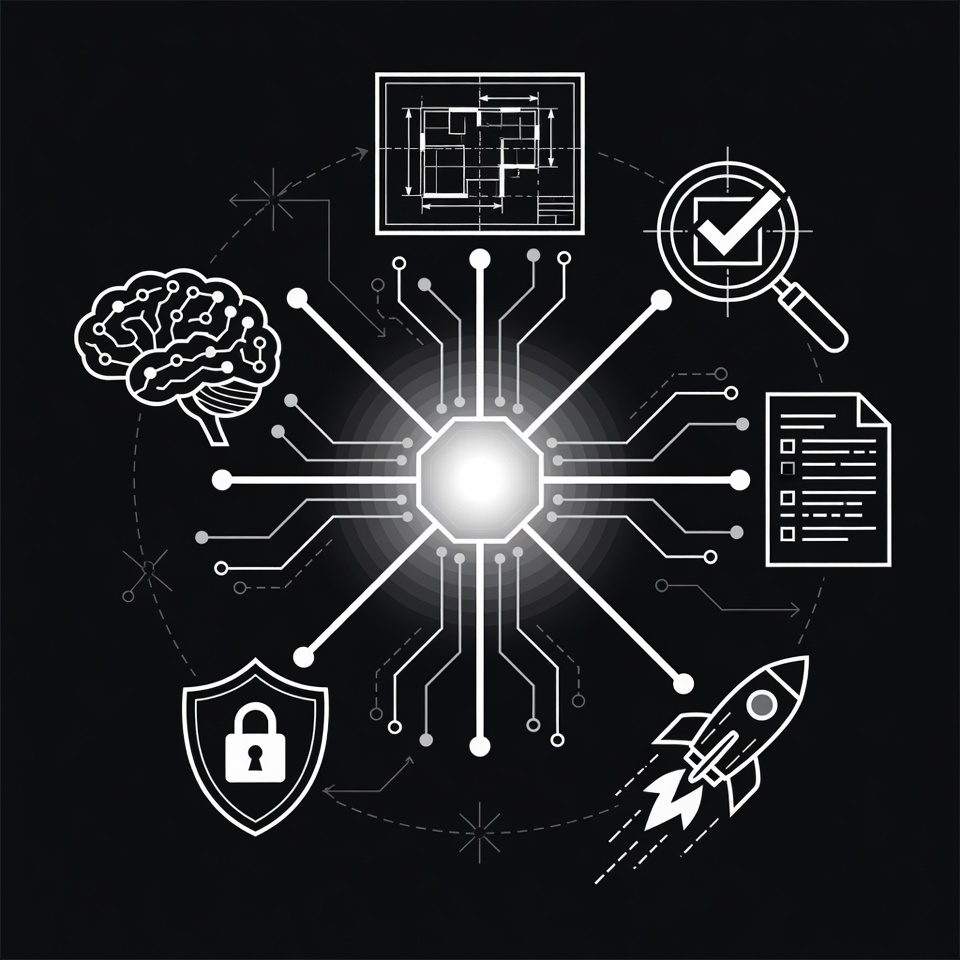
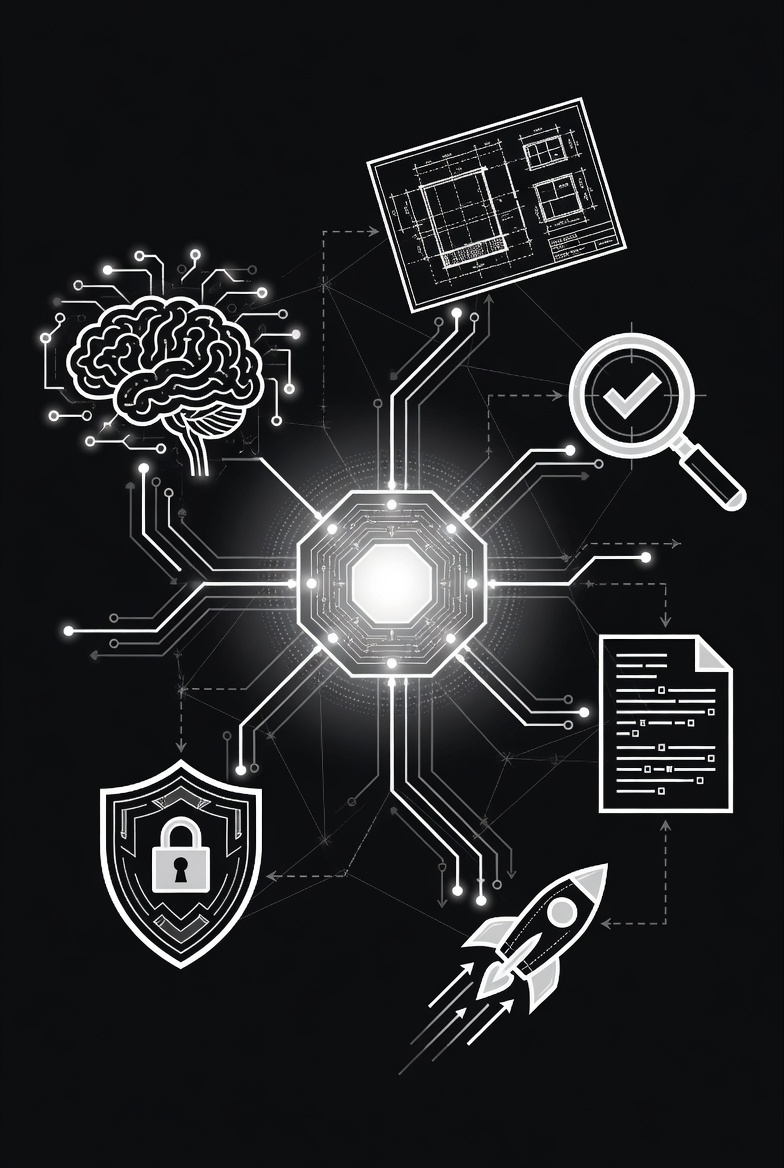
fix: use 3:2 expert system image, remove CSS invert, match founder sizing
Same dark image in both light and dark mode — CSS invert produced poor
results. Matches founder photo sizing (288x288, object-cover, rounded-2xl).

Changed region(s): [[0.0306, 0.0625, 0.949, 0.9062]]

diff --git a/src/app/page.tsx b/src/app/page.tsx
@@ -429,13 +429,14 @@ export default function Home() {
         <section className="bg-[#B2F0FF] px-4 py-20 md:px-6 md:py-24 dark:bg-[#1A4D5C]">
           <div className="mx-auto max-w-[1200px]">
             <div className="grid items-start gap-12 md:grid-cols-[280px_1fr]">
-              <div className="mx-auto h-64 w-64 overflow-hidden rounded-2xl md:mx-0 md:h-72 md:w-72">
+              <div className="mx-auto overflow-hidden rounded-2xl md:mx-0">
                 <Image
                   src="/images/neckarshore-ai-expert-system.jpg"
                   alt="KI-Expertensystem von neckarshore.ai — spezialisierte AI-Agenten für Architektur, Quality Engineering, Dokumentation und Deployment"
-                  width={960}
-                  height={960}
-                  className="h-full w-full object-cover dark:invert-0 invert"
+                  width={288}
+                  height={288}
+                  className="rounded-2xl object-cover"
+                  loading="lazy"
                 />
               </div>
 